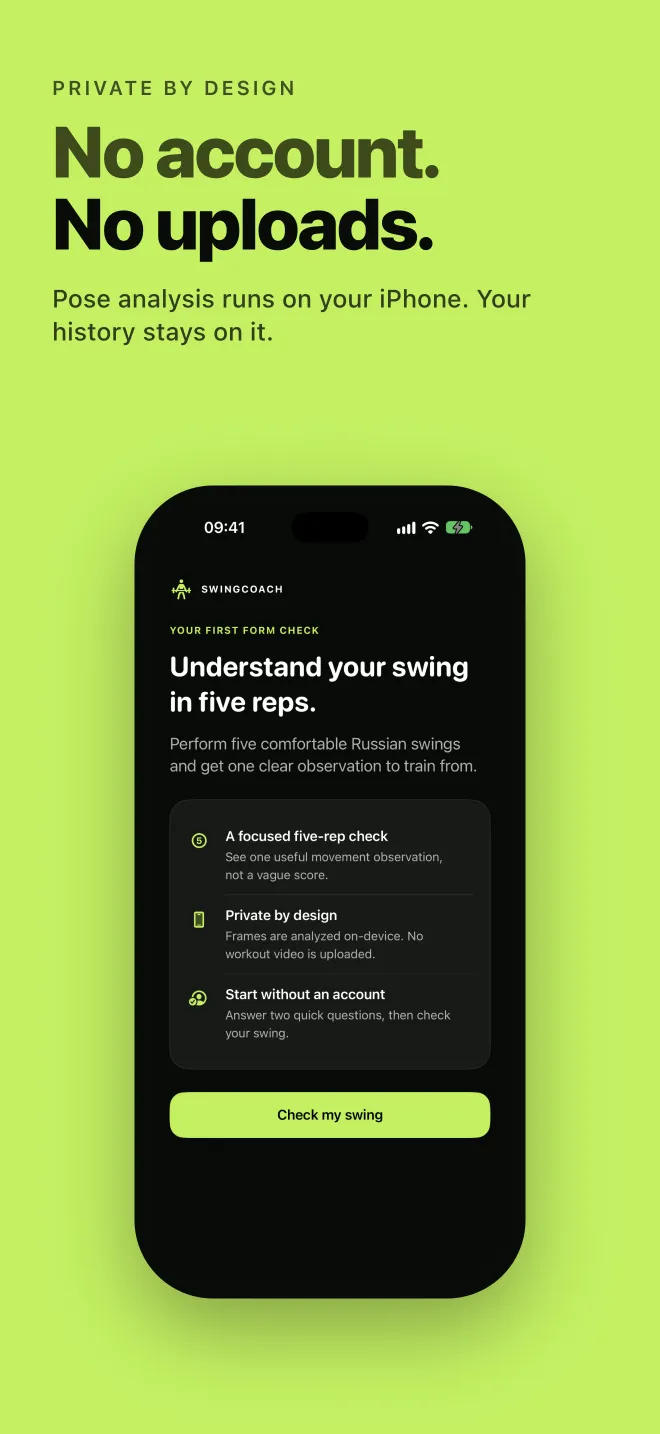
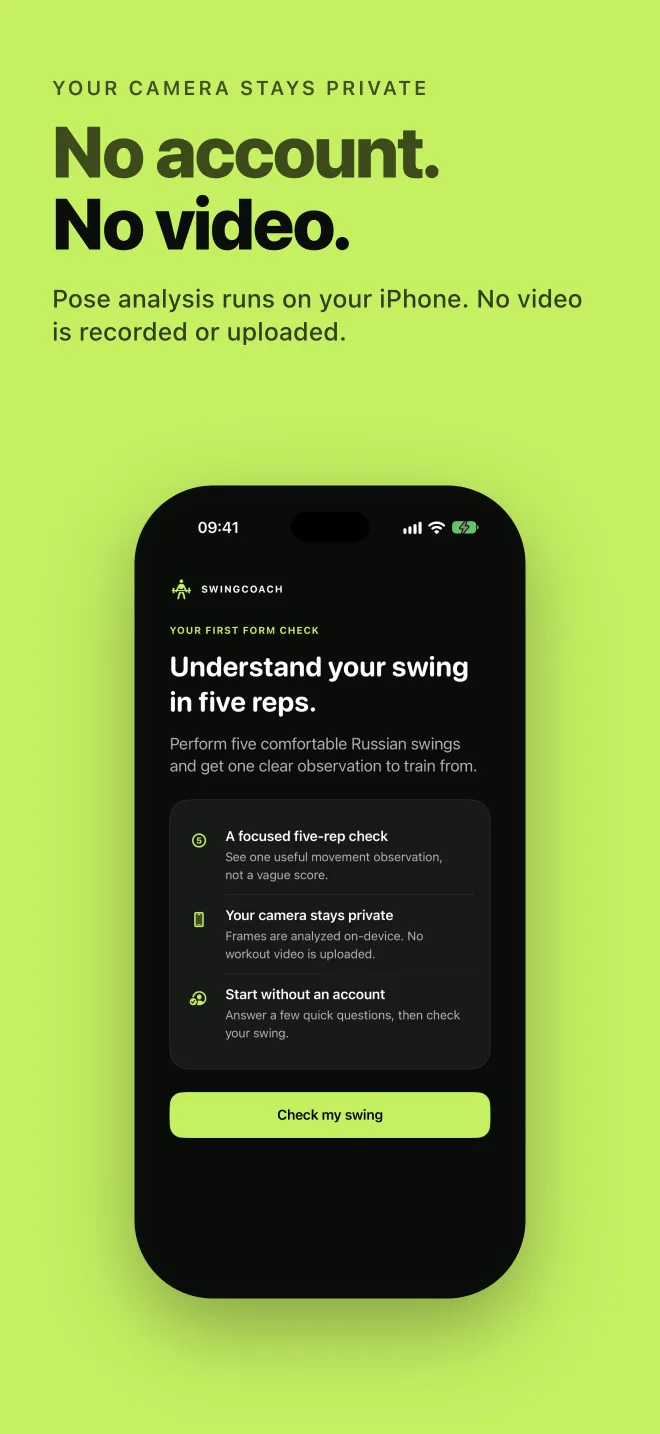
Keep the SwingCoach page true for the Firebase build (#61)

diff --git a/swingcoach/index.html b/swingcoach/index.html
@@ -161,7 +161,7 @@
                     <div class="shot"><img src="/swingcoach/shot-03-330.webp" srcset="/swingcoach/shot-03-330.webp 330w, /swingcoach/shot-03.webp 660w" sizes="236px" alt="First-week plan with three starter sessions" width="330" height="717" loading="lazy"></div>
                     <div class="shot"><img src="/swingcoach/shot-04-330.webp" srcset="/swingcoach/shot-04-330.webp 330w, /swingcoach/shot-04.webp 660w" sizes="236px" alt="Start training with open training or a rep goal" width="330" height="717" loading="lazy"></div>
                     <div class="shot"><img src="/swingcoach/shot-05-330.webp" srcset="/swingcoach/shot-05-330.webp 330w, /swingcoach/shot-05.webp 660w" sizes="236px" alt="Heart rate and calories on Apple Watch during a workout" width="330" height="717" loading="lazy"></div>
-                    <div class="shot"><img src="/swingcoach/shot-06-330.webp" srcset="/swingcoach/shot-06-330.webp 330w, /swingcoach/shot-06.webp 660w" sizes="236px" alt="No account and no uploads: the welcome screen" width="330" height="717" loading="lazy"></div>
+                    <div class="shot"><img src="/swingcoach/shot-06-330.webp" srcset="/swingcoach/shot-06-330.webp 330w, /swingcoach/shot-06.webp 660w" sizes="236px" alt="No account and no video: the welcome screen" width="330" height="717" loading="lazy"></div>
                 </div>
             </div>
         </section>
@@ -193,16 +193,16 @@
             <div class="wrap">
                 <div class="privacy-card">
                     <div>
-                        <span class="kicker">Private by design</span>
+                        <span class="kicker">Your camera stays private</span>
                         <h2>No account. No video uploads.</h2>
-                        <p>Pose analysis runs on your iPhone with Apple's Vision framework. Your history and rep snapshots stay on your iPhone.</p>
+                        <p>Pose analysis runs on your iPhone with Apple's Vision framework. Your rep counts, form measurements, and rep snapshots stay on your devices. From version 1.1, the iPhone app sends crash reports and usage analytics, with no camera images or rep counts.</p>
                         <a href="/swingcoach/privacy/">Read the Privacy Policy</a>
                     </div>
                     <ul>
                         <li>No account and no sign-up</li>
                         <li>No video recorded or uploaded</li>
                         <li>No ads and no in-app purchases</li>
-                        <li>History stays on your iPhone</li>
+                        <li>Rep counts stay on your devices</li>
                     </ul>
                 </div>
             </div>

diff --git a/blog/swingcoach-kettlebell-swing-counter-launch/index.html b/blog/swingcoach-kettlebell-swing-counter-launch/index.html
@@ -166,7 +166,7 @@
                     <li><strong>No video recorded or uploaded.</strong> The pose analysis runs on your iPhone.</li>
                     <li><strong>No ads and no in-app purchases.</strong></li>
                 </ul>
-                <p>Your history and rep snapshots stay on your iPhone. The <a href="/swingcoach/privacy/">privacy policy</a> has the details.</p>
+                <p>Your rep counts and rep snapshots stay on your devices. From version 1.1, the iPhone app also sends crash reports and usage analytics. The <a href="/swingcoach/privacy/">privacy policy</a> has the details.</p>
                 <p>One note: SwingCoach estimates your movement from a 2D side view. It is not a medical check, and it does not replace a qualified coach. Train within your ability, and clear the space around you before you swing.</p>
 
                 <h2 id="get">Get SwingCoach</h2>
